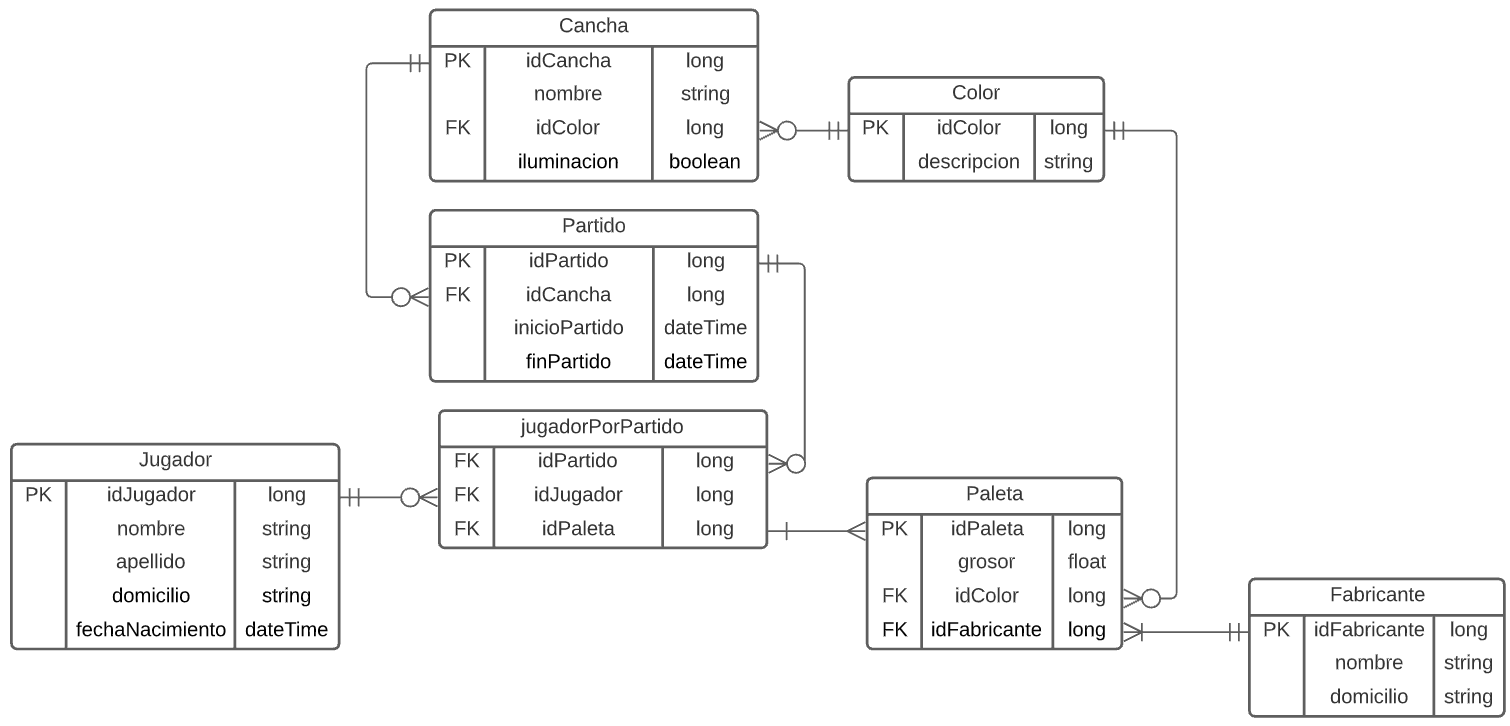
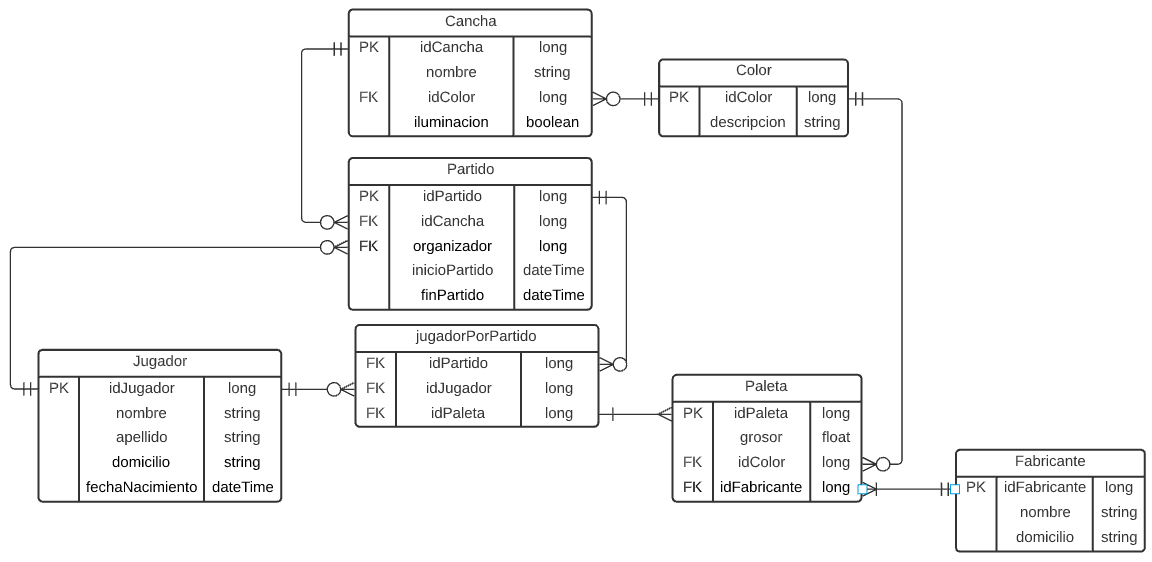
actualizo la imagen del der

Changed region(s): [[0.0, 0.0, 0.7812, 0.9075], [0.8125, 0.7865, 1.0, 0.9982]]

diff --git a/src/main/java/Jugador.java b/src/main/java/Jugador.java
@@ -26,6 +26,8 @@ public class Jugador {
   @OneToMany(mappedBy = "jugador", cascade = CascadeType.ALL)
   private List<JugadorPorPartido> jugadorPorPartido = new ArrayList<>();
 
+  @OneToMany(mappedBy = "organizador", cascade = CascadeType.ALL)
+  private List<Partido> partidosOrganizados = new ArrayList<>();
   //CONSTRUCTOR
 
   public Jugador(String idJugador, String nombre, String apellido, String direccion, LocalDateTime fechaNacimiento) {
@@ -60,6 +62,10 @@ public class Jugador {
 
   public List<JugadorPorPartido> getJugadorPorPartido() {
     return jugadorPorPartido;
+  }
+
+  public List<Partido> getPartidosOrganizados() {
+    return partidosOrganizados;
   }
 
   //SETTERS

diff --git a/src/main/java/Partido.java b/src/main/java/Partido.java
@@ -15,6 +15,10 @@ public class Partido {
   @JoinColumn(name= "idCancha")
   private Cancha cancha;
 
+  @ManyToOne(fetch = FetchType.LAZY)
+  @JoinColumn(name= "idJugador")
+  private Jugador organizador;
+
   @Column(name = "inicioPartido")
   private LocalDateTime inicioPartido;
 
